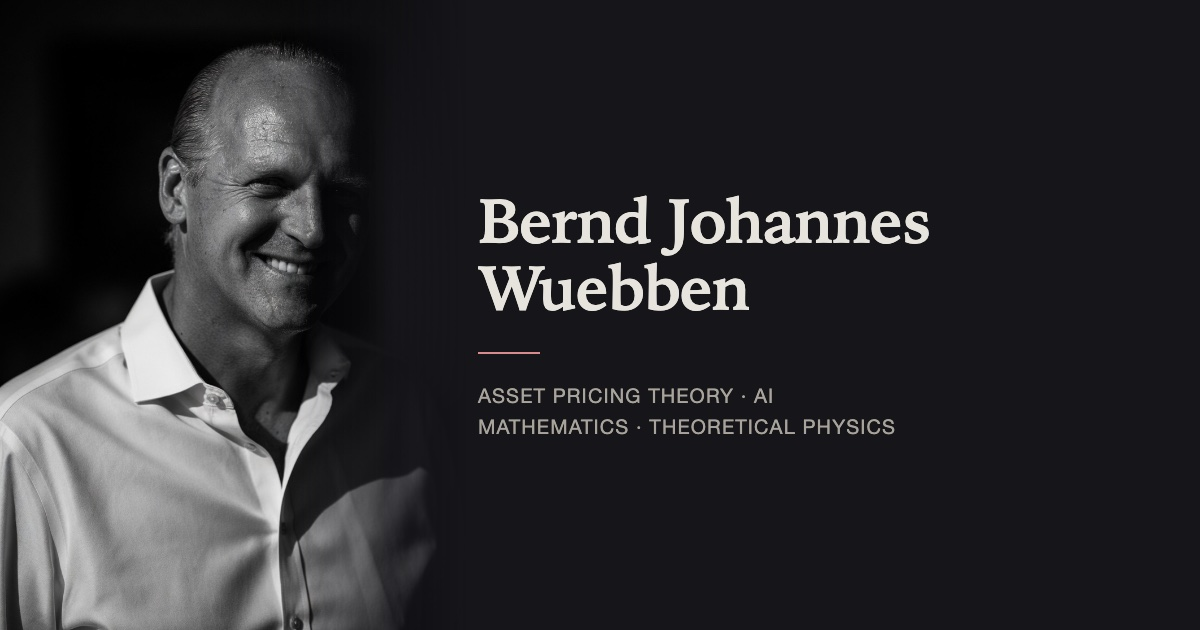
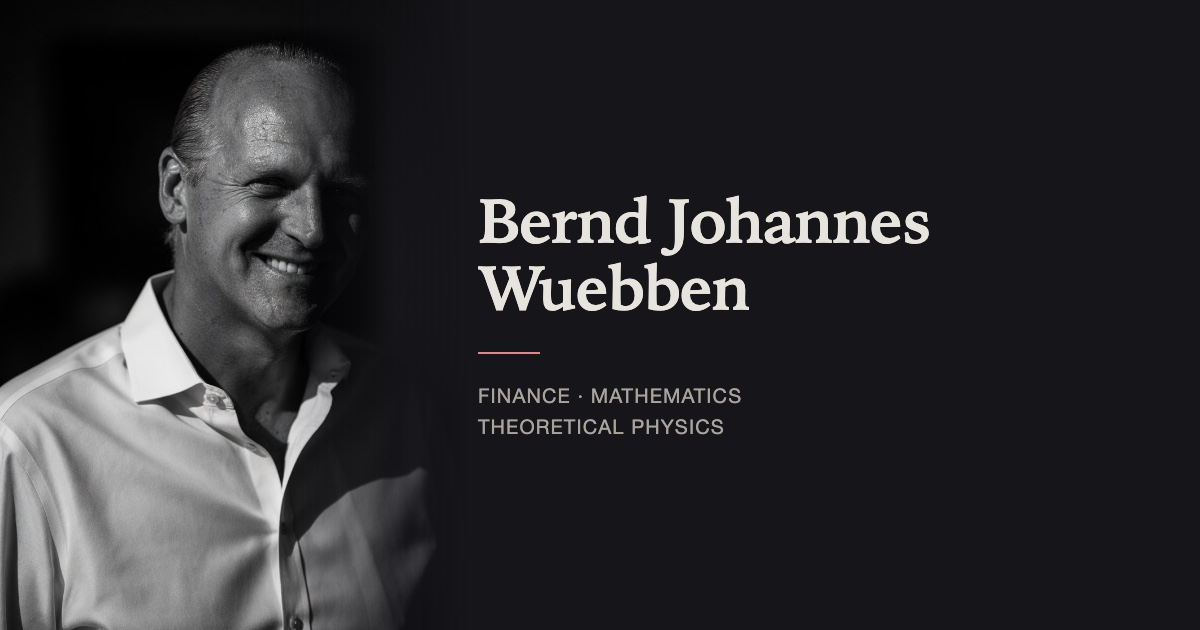
Tagline: Finance · Mathematics · Theoretical Physics

Changed region(s): [[0.4008, 0.6032, 0.74, 0.6937]]

diff --git a/index.html b/index.html
@@ -68,7 +68,7 @@
 
   <header class="masthead">
     <h1>Bernd Johannes Wuebben</h1>
-    <p class="tagline">Asset Pricing Theory · AI · Mathematics · Theoretical Physics</p>
+    <p class="tagline">Finance · Mathematics · Theoretical Physics</p>
 
     <figure class="portrait">
       <a href="portrait/" title="View full size">

diff --git a/tools/social-card.html b/tools/social-card.html
@@ -48,7 +48,7 @@
   <div class="text">
     <h1>Bernd Johannes<br>Wuebben</h1>
     <div class="rule"></div>
-    <p>Asset Pricing Theory · AI<br>Mathematics · Theoretical Physics</p>
+    <p>Finance · Mathematics<br>Theoretical Physics</p>
   </div>
 </body>
 </html>
